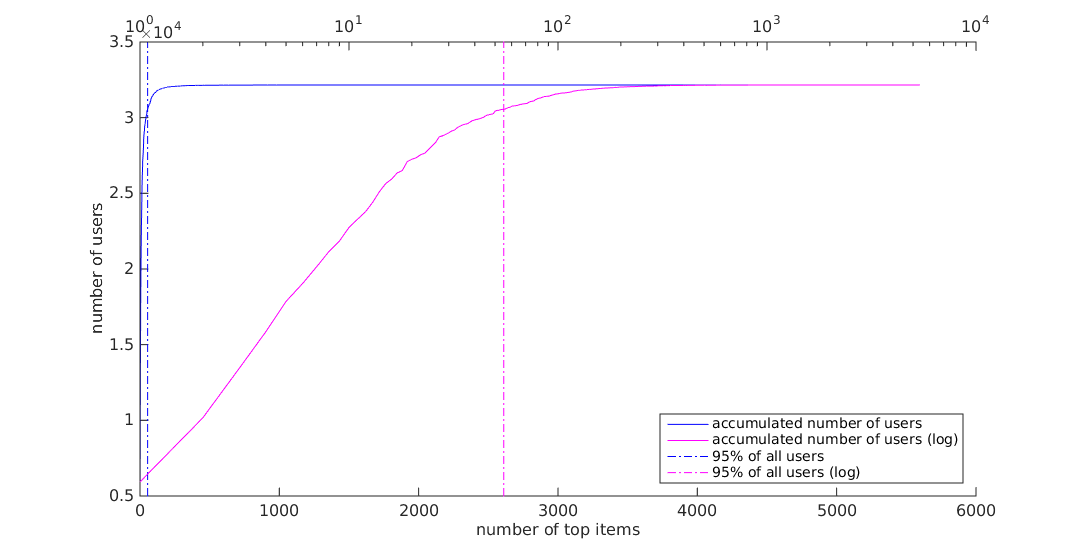
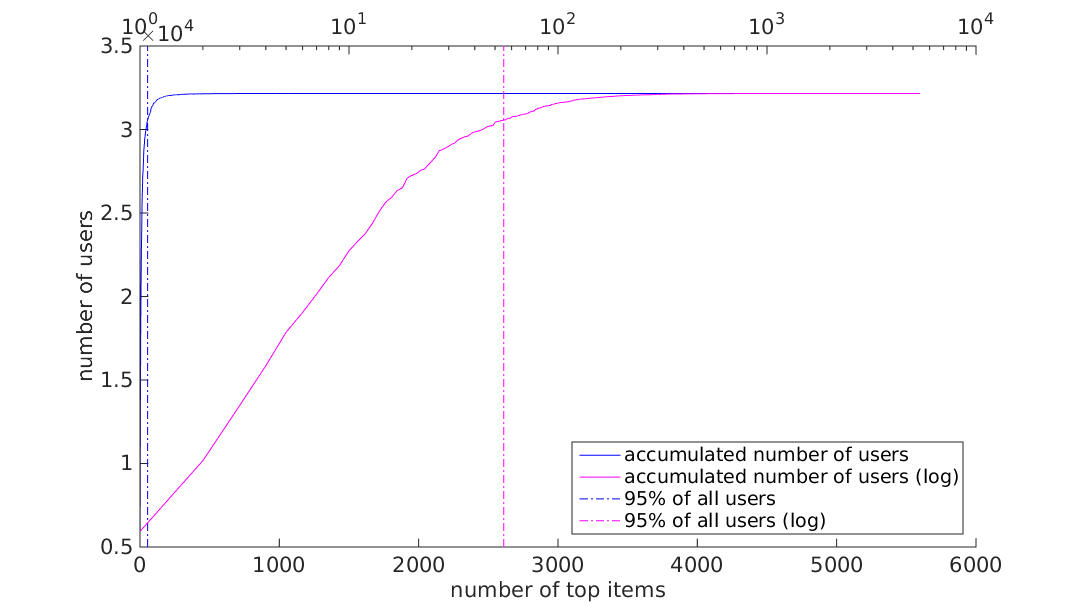
Fix font size top data plots

diff --git a/report/results/data/interactions.tex b/report/results/data/interactions.tex
@@ -69,3 +69,30 @@ readwrite: Among Mobile App Developers, The Middle Class Has Disappeared, 2014. 
 
 \twodiffpic{fig/data/movielens1m_top_data.png}{\textit{movielens1m}}
 {fig/data/romeo_top_data.png}{\textit{romeo}}
+
+%alphaS: 95\% of all users concentrated on 3058 of the items (26035 tot, 11.75\%)
+%eswc2015books: 95\% of all users concentrated on 120 of the items (2609 tot, 4.6\%)
+%eswc2015movies: 95\% of all users concentrated on 55 of the items (5389 tot, 1.02\%)
+%eswc2015music: 95\% of all users concentrated on 78 of the items (6372 tot, 1.22\%)
+%movielens1m: 95\% of all users concentrated on 13 of the items (3706 tot, 0.35\%)
+%romeo: 95\% of all users concentrated on 21 of the items (722 tot, 2.91\%)
+
+\begin{table}[h!]
+    \centering
+    \begin{tabular}{| c | r | r | r | r | l |}
+        \hline
+        \textbf{dataset}        & \textbf{items}  & \textbf{item ratio} \\ \hline
+
+        \textit{alphaS}         &   3058          & 11.75\%             \\ \hline
+        \textit{eswc2015books}  &   120           & 4.6\%                \\ \hline
+        \textit{eswc2015movies} &   55            & 1.02\%               \\ \hline
+        \textit{eswc2015music}  &   78            & 1.22\%               \\ \hline
+        \textit{movielens1m}    &   13            & 0.35\%               \\ \hline
+        \textit{romeo}          &   21            & 2.91\%               \\ \hline
+
+    \end{tabular}
+    \caption{This table describes how many of the most used items are necessary to include 95\% of all users}
+    \label{tab:top_data}
+\end{table}
+
+\FloatBarrier
